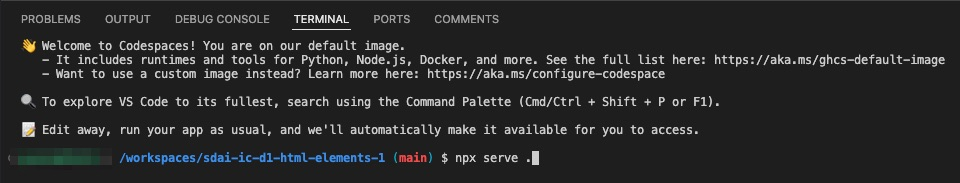
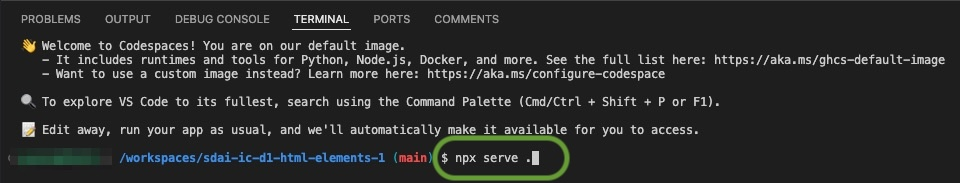
added new images to the codespace instructions

Changed region(s): [[0.4375, 0.7377, 0.5938, 1.0]]

diff --git a/README.md b/README.md
@@ -17,19 +17,22 @@ This lab introduces you to the fundamental building blocks of HTML webpages. You
 ## Setup Instructions for Codespaces 🛠
 #### Forking the Repository
 1. Click the Fork button at the top-right of the repository page to create a copy under your GitHub account.
-!["final rendering for demo"](assets/images/sdai-repo-fork-ex.png)
+!["github fork button"](assets/images/sdai-repo-fork-ex.png)
 #### Open Codespaces:
 2. Wait for the Code button to appear on your forked repository page.
-!["final rendering for demo"](assets/images/sdai-code-button-example.png)
+!["github code button"](assets/images/sdai-code-button-example.png)
 1. Click the Code button and select Open with Codespaces.
-!["final rendering for demo"](assets/images/sdai-repo-codespace-example.png)
+!["codespace button example"](assets/images/sdai-repo-codespace-example.png)
 #### Starting the Development Server (Port)
 1.  In the terminal, type the following command to start the server: `npx serve .`
-!["final rendering for demo"](assets/images/)
-1. When prompted, type y to proceed.
+!["terminal example for npx"](assets/images/sdai-csp-terminal-exple.jpg)
+1. When prompted, type y and press return / enter.
+!["terminal example for npx"](assets/images/sdai-csp-terminal-exple_2.jpg)
 #### Open the Webpage:
 1. Navigate to the Ports section where the terminal is.
-2. Click on the globe icon to open the webpage and render your code.
+!["VS code port tab"](assets/images/sdai-port-1-ex.png)
+1. Click on the globe icon to open the webpage and render your code.
+   !["how to open port"](assets/images/sdai-port-example.png)
 
 ---
 
